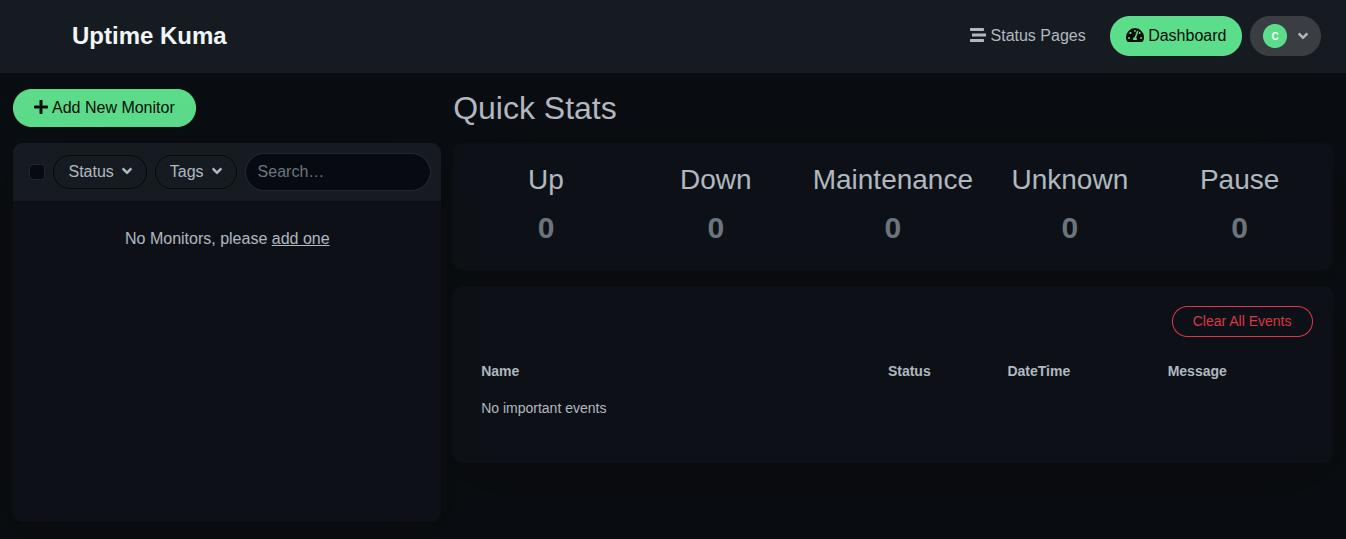
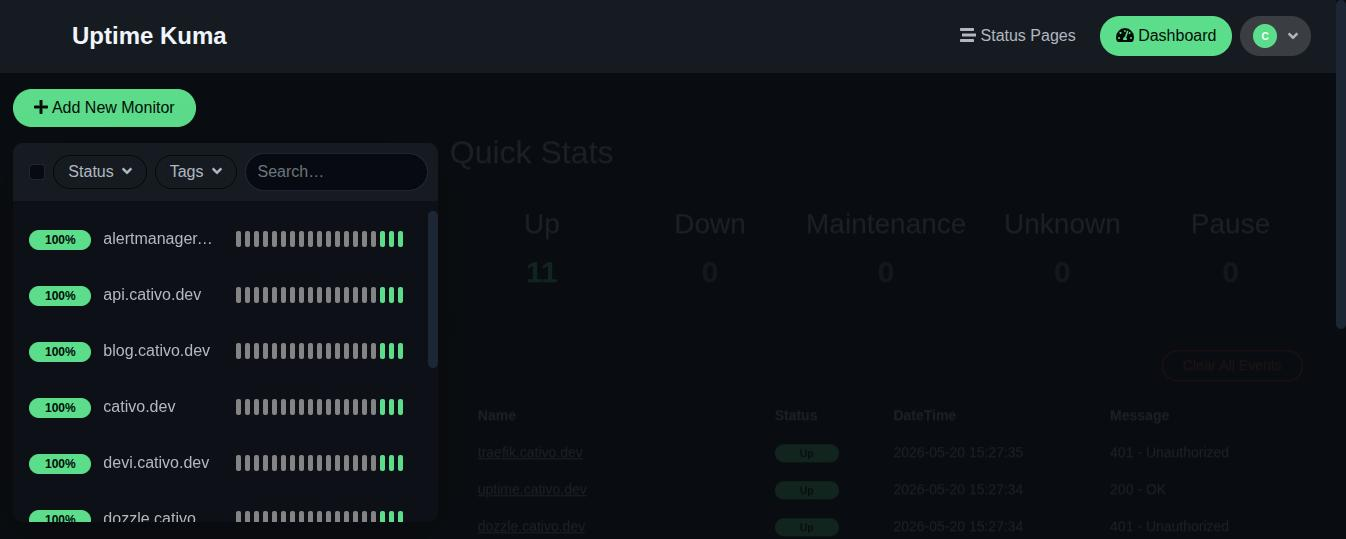
docs(F22): close out Uptime Kuma monitors, recapture screenshot
11 monitors live (cativo.dev + 10 subdomains). All green. Updates:
- IMPROVEMENT-PLAN: F22 → done with library-quirk note for future
  reference (Kuma 2.2 NOT NULL conditions).
- screenshots README: rewrite uptime-kuma.jpg description (Quick
  Stats now populated, mixed 200/401 heartbeats explained).
- Replace empty uptime-kuma.jpg with the populated capture.

diff --git a/IMPROVEMENT-PLAN.md b/IMPROVEMENT-PLAN.md
@@ -37,7 +37,7 @@ Tracks architecture review findings and the order we tackle them. Findings are r
 ## P3 — Quality of life
 
 - [x] **F21. cAdvisor not exposing per-container labels.** Fixed 2026-05-20. Real root cause was NOT `--docker_only=true` — it was that Docker on polaris2 uses the **containerd-snapshotter** image store (`Storage Driver: overlayfs / driver-type: io.containerd.snapshotter.v1`), not the classic `/var/lib/docker/image/overlay2/` layout. cAdvisor v0.49.1 failed layer-ID lookup on every container, so no per-container metrics were registered (only root cgroup). Fix: bump to `cadvisor:v0.55.1` (better containerd integration) + mount `/run/containerd/containerd.sock:ro` + add `--store_container_labels=true` and `--containerd=/run/containerd/containerd.sock` flags. Verified 20 containers now register with `name`/`image` labels; Grafana dashboard 14282 renders. Captured at `docs/screenshots/grafana-cadvisor.jpg`.
-- [ ] **F22. Uptime Kuma has no monitors configured.** Discovered 2026-05-20 — `uptime.cativo.dev` shows empty Quick Stats and "No Monitors, please add one". Add HTTP(S) probes for all 12 public subdomains (cativo.dev, blog, api, mail, devi, grafana, prometheus, alertmanager, dozzle, uptime, traefik, plus the planned `status.cativo.dev`).
+- [x] **F22. Uptime Kuma has no monitors configured.** Fixed 2026-05-20. Wrote `scripts/setup-kuma-monitors.py` (idempotent, env-var-driven) plus a `~/setup-kuma-monitors.sh` helper that bootstraps an isolated venv. Registered 11 HTTP(s) monitors — one per running Traefik router (`cativo.dev`, `blog`, `api`, `mail`, `devi`, `grafana`, `prometheus`, `alertmanager`, `dozzle`, `uptime`, `traefik`). Services behind basic auth accept `401` as "Up" (service responding, just gated). Verified Quick Stats: Up 11 / Down 0. The planned `status.cativo.dev` (per `docs/runbooks/status-page.md`) remains to add once Kuma's status page is enabled. **Lib quirk worth keeping:** `uptime-kuma-api` 1.x doesn't know about Kuma 2.2's NOT NULL `conditions` column — script monkey-patches `_build_monitor_data` to inject `conditions=[]` before send.
 - [x] **F9.** Added `depends_on: prometheus` to grafana so startup order is deterministic.
 - [x] **F10.** Prometheus retention set to 30d via `--storage.tsdb.retention.time=30d`; persistent volume already in place from F5.
 - [ ] **F12.** Replace Roundcube inline heredoc entrypoint (`mail-server/docker-compose.yml:79-101`) with the existing `roundcube-*.conf.php` files mounted as volumes.

diff --git a/docs/screenshots/README.md b/docs/screenshots/README.md
@@ -8,7 +8,7 @@ Visual evidence of the stack in production. Captures referenced from the main [R
 |---|---|---|
 | `grafana-node-exporter.jpg` | Node Exporter Full dashboard — live CPU 6%, RAM 29.1%, disk 36.4%, swap 0.8%, uptime 3.8 weeks, plus the CPU Basic / Memory Basic time-series for the past 3 hours | `https://grafana.cativo.dev/d/rYdddlPWk/node-exporter-full` |
 | `grafana-traefik.jpg` | Traefik Standalone dashboard — HTTP code distribution (GET[200] 61%, GET[404] 16%, GET[302] 12%, …), requests per entrypoint, Apdex per method, top slow services, most-requested services | `https://grafana.cativo.dev/d/n5bu_kv45/traefik-official-standalone-dashboard` |
-| `uptime-kuma.jpg` | Uptime Kuma dashboard — note: empty Quick Stats here; monitors still pending (TODO) | `https://uptime.cativo.dev` |
+| `uptime-kuma.jpg` | Uptime Kuma dashboard — 11 monitors registered (one per public subdomain), Quick Stats: Up 11 / Down 0. Event log shows mixed `200 OK` and `401 Unauthorized` heartbeats (auth-gated services counted as Up since 401 means "service responding"). Captured after F22 fix. | `https://uptime.cativo.dev/dashboard` |
 | `grafana-cadvisor.jpg` | cAdvisor exporter dashboard — per-container CPU% time-series with legend (alertmanager 0.0983%, cadvisor 7.30%, ghost-blog-prod-db-1 0.595%, …), Memory Usage and Memory Cached panels. Captured after F21 fix (cAdvisor bumped to v0.55.1 for containerd-snapshotter support). | `https://grafana.cativo.dev/d/pMEd7m0Mz/cadvisor-exporter` |
 
 ## Pending
